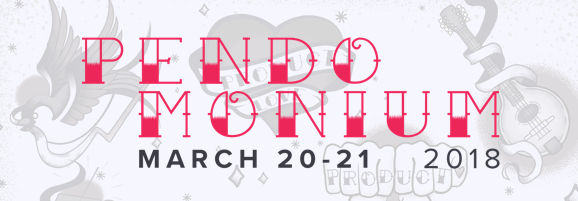
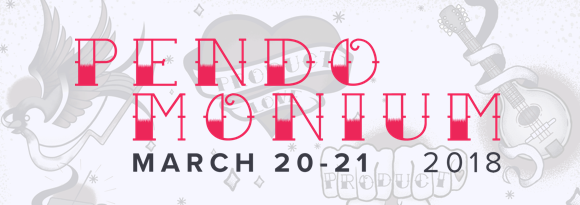
Pendomonium pre inline commit

diff --git a/src/pages/Pendomonium_earlyBird.html b/src/pages/Pendomonium_earlyBird.html
@@ -17,8 +17,61 @@
   <row>
     <columns large="12">
       <center>
-      <button class="red-cta" href="#">REGISTER NOW</button>
+        <button class="red-cta" href="#">REGISTER NOW</button>
       </center>
     </columns>
   </row>
+  <!--body content -->
+  <row>
+    <coulumns large="12">
+      <p class="body-copy">
+        Dear {FName},
+      </p>
+      <p class="body-copy">
+        Pendomonium is back! In 2018 we’re taking the product experience conference to the next level - and you’re invited! Pendo is spreading the word of “product love,” inspiring product teams from all industries to create software that customers love to use
+        every day.
+      </p>
+      <p class="body-copy">
+        Pendomonium will bring more than 400 enthusiastic product people to Raleigh for learning, networking, and a heaping helping of Southern hospitality. Join us March 20-21, 2018 at the Sheraton Hotel to learn from Dan Heath, New York Times best-selling co-author
+        of Decision, Switch, The Power of Moments, and Made to Stick; Nir Eyal, author of Hooked: How to Build Habit-forming Products;and product leaders from Workfront, Marketo, Citrix and many others.
+      </p>
+      <p class="list-head">
+        The event will feature <strong>more than 30 sessions</strong> across four tracks:
+      </p>
+      <ul>
+
+        <li>Customer Insight and User Experience</li>
+        <li>The Art and Science of Product Management</li>
+        <li>Product Strategy, Design and Innovation</li>
+        <li>Pendo Best Practices</li>
+      </ul>
+      <p class="body-copy">
+        Super early bird pricing runs out at the end of December, so register today to join us in Raleigh.
+      </p>
+      <p class="body-copy">
+        We will have awesome local band Mipso, delicious Southern comfort food and a custom Pendomonium Pale Ale. Come learn, network and hang out with product leaders from coast to coast!
+      </p>
+      <p class="body-copy">
+        Cheers,
+      </p>
+      <p class="body-copy">
+      {Name}
+      </p>
+    </coulumns>
+  </row>
+  <!-- lower CTA -->
+  <row>
+    <columns large="12">
+      <center>
+        <button class="red-cta" href="#">REGISTER NOW</button>
+      </center>
+    </columns>
+  </row>
+  <!--lower banner-->
+  <row class="collapse">
+    <columns large="12">
+      <img class="border-hero" src="../assets/img/location_banner.png" />
+    </columns>
+  </row>
+  {{>PendoFooter}}
 </container>

diff --git a/src/assets/scss/app.scss b/src/assets/scss/app.scss
@@ -5,7 +5,7 @@
 
 //variables
 //------------------------------
-$md-gray: #BABCC5;
+$md-gray: #6A6C75;
 $primary: #EC2059;
 $secondary: #BD1746;
 $drk-pink: #BD1746;
@@ -15,11 +15,15 @@ $lt-gray: #F4F4F7;
 //custom stlyes
 //------------------------------
 
-.preheader{
+ a.preheader{
   text-align: center;
   color: $md-gray;
   font-size: .8em;
   padding-top: 10px;
+
+  :visited{
+    color: $md-gray;
+  }
 }
 .border-hero{
   border-top: 2px solid $primary;
@@ -33,4 +37,43 @@ table.button table td{
   :hover{
     background: $primary;
   }
+}
+.body-copy{
+  color: $drk-gray;
+  font-size: .9em;
+  margin-left: 30px;
+  margin-right: 30px;
+  margin-bottom: 20px;
+}
+.list-head{
+  color: $drk-gray;
+  font-size: .9em;
+  margin-left: 30px;
+  margin-right: 30px;
+  margin-bottom: 0;
+  padding-bottom: 0;
+}
+ul,li{
+  margin-top: 5px;
+  margin-left: 10px;
+  color: $drk-gray;
+  font-size: .9em;
+}
+.footer{
+  background-color: $md-gray;
+}
+.footer-text{
+  font-size: .7em;
+  color: $lt-gray;
+  text-align: center;
+  margin-top: 10px;
+}
+.footer-image{
+  display: inline-block;
+  padding: 10px;
+}
+.copyright{
+  font-size: .7em;
+  color: $lt-gray;
+  text-align: center;
 }

diff --git a/src/partials/PendoFooter.html b/src/partials/PendoFooter.html
@@ -1,0 +1,36 @@
+<!--footer-->
+<row class="collapse">
+<columns large="12" class="footer">
+<!--logo row-->
+<row>
+  <columns large="12">
+    <center>
+    <p class="footer-text">
+      brought to you by
+    </p>
+    <img src="../assets/img/pendo_white_footer.png" />
+    </center>
+  </columns>
+</row>
+<!-- social icons-->
+<row>
+  <columns></columns>
+  <columns>
+    <center>
+    <a href="#"><img class="footer-image" src="../assets/img/twiter_icon.png" /></a>
+    <a href="#"><img class="footer-image" src="../assets/img/linkedIn_icon.png" /></a>
+    <a href="#"><img class="footer-image" src="../assets/img/facebook_icon.png" /></a>
+      </center>
+  </columns>
+  <columns></columns>
+</row>
+<!--copyright-->
+<row>
+<columns large="12">
+<p class="copyright">
+  &copy; Pendo 2017
+</p>
+</columns>
+</row>
+</columns>
+</row>
